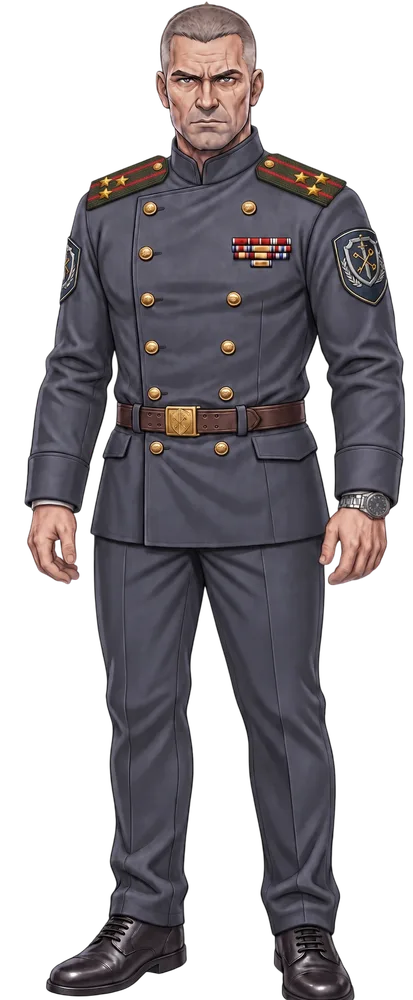
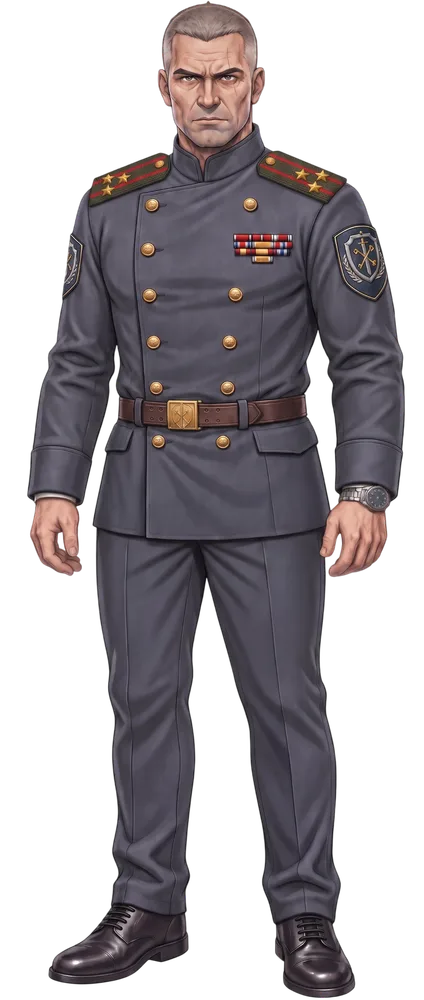
feat(landing): портрет Воронцова и новая фигура в полный рост

diff --git a/heroes.html b/heroes.html
@@ -157,7 +157,7 @@
       <h2 class="heroes-group-title">Другие</h2>
       <div class="char-grid">
       <a class="char-tile" href="characters/vorontsov.html">
-        <div class="crew-portrait" data-monogram="В"></div>
+        <div class="crew-portrait" data-monogram="В"><img loading="lazy" decoding="async" src="images/heroes/vorontsov.webp" alt="Воронцов" /></div>
         <span class="char-tile-name">Воронцов</span>
         <span class="char-tile-role">Правительственная служба</span>
       </a>

diff --git a/tools/make_fullbody.py b/tools/make_fullbody.py
@@ -25,7 +25,7 @@ SRC = {
     'rita':      'Рита/Character_detail_refinement_and_…_202609050129-Photoroom.png',
     'pasha':     'Паша/Охранник с немецкой овчаркой.png',
     'rayda':     'Паша/Райда в полный рост-Photoroom.png',
-    'vorontsov': 'Воронцов/Gemini_Generated_Image_ilshr2ilshr2ilsh-Photoroom.png',
+    'vorontsov': 'Воронцов/Gemini_Generated_Image_m56hdym56hdym56h-Photoroom.png',
     'romka':     'Ребята с велопрогулки/Detailed_character_development_f…_2K_202609050135.jpeg',
 }
 OUT = os.path.join(D, 'images/heroes/full'); os.makedirs(OUT, exist_ok=True)
